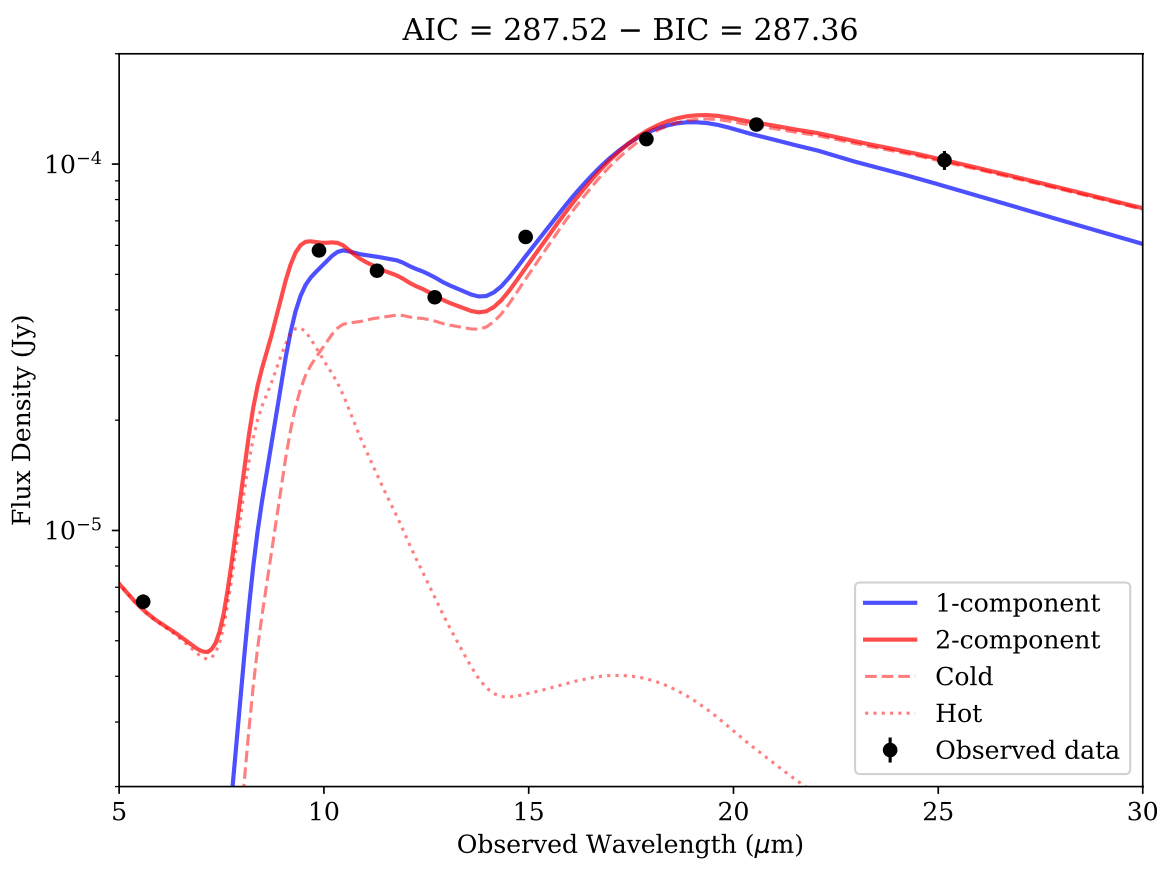
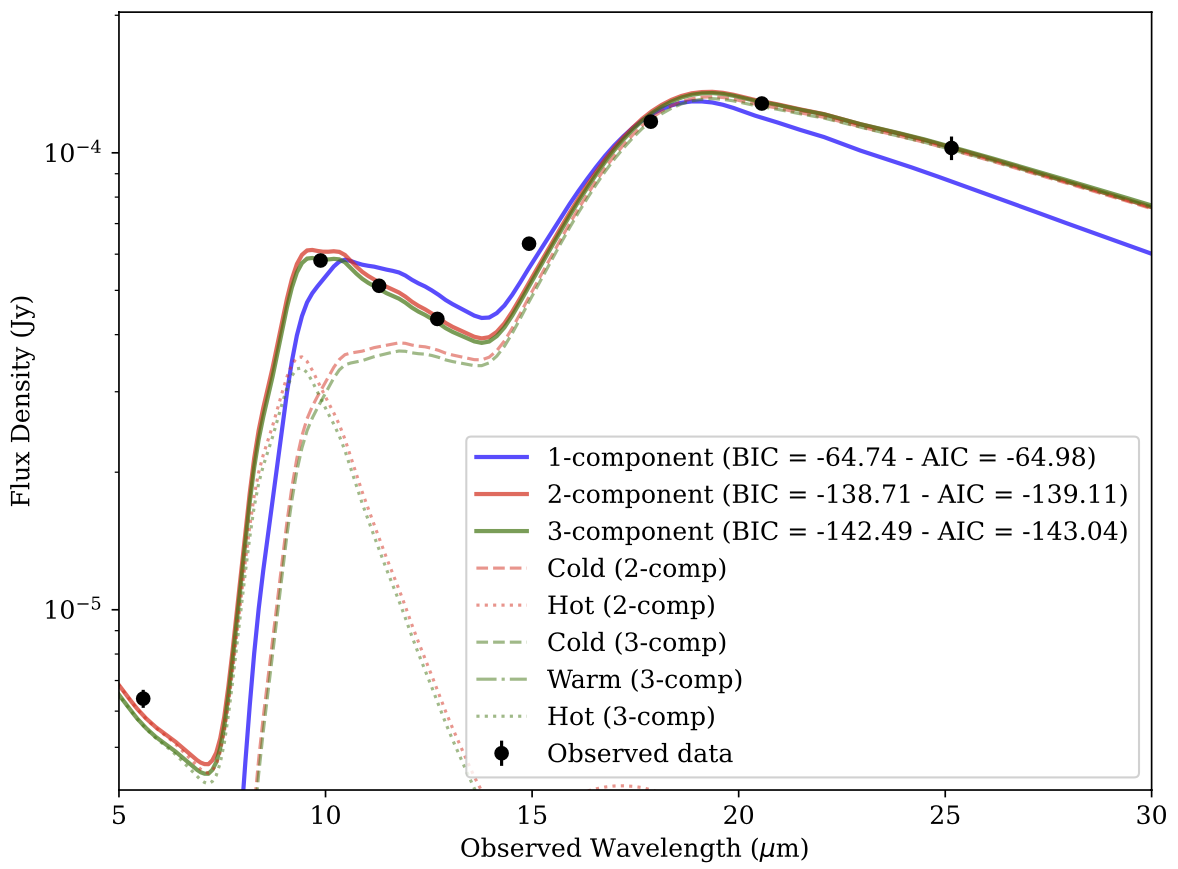
Version 0.1

diff --git a/dustysn/model.py b/dustysn/model.py
@@ -1627,13 +1627,12 @@ def fit_dust_model(obs_wave, obs_flux, obs_flux_err, obs_limits, redshift, objec
     return results, last_samples
 
 
-def compare_models(obs_wave, obs_flux, obs_flux_err, obs_limits, redshift, object_name,
-                   results_1, results_2, composition1='carbon', composition2='carbon', grain_size=0.1,
-                   obs_wave_filters=None, obs_trans_filters=None, fig_size=(8, 6),
+def compare_models(obs_wave, obs_flux, obs_flux_err, obs_limits, redshift, object_name, results_1, results_2,
+                   results_3, grain_size=0.1, obs_wave_filters=None, obs_trans_filters=None, fig_size=(8, 6),
                    output_dir='.', plot_comparison=True, composition_hot=None, composition_cold=None,
                    composition_warm=None, dust_type='thin', radius=None, add_sigma=True, distance=None):
     """
-    Compare 1-component vs 2-component dust models.
+    Compare 1-component, 2-component, and 3-component dust models.
 
     Parameters
     ----------
@@ -1653,10 +1652,8 @@ def compare_models(obs_wave, obs_flux, obs_flux_err, obs_limits, redshift, objec
         Dictionary with the results of the 1-component MCMC fit
     results_2 : dict
         Dictionary with the results of the 2-component MCMC fit
-    composition1 : str, default 'carbon'
-        Composition of the dust for the 1-component model
-    composition2 : str, default 'carbon'
-        Composition of the dust for the 2-component model
+    results_3 : dict
+        Dictionary with the results of the 3-component MCMC fit
     grain_size : float, default 0.1
         Grain size in microns
     obs_wave_filters : list of arrays
@@ -1673,6 +1670,8 @@ def compare_models(obs_wave, obs_flux, obs_flux_err, obs_limits, redshift, objec
         Composition of the hot dust component (if n_components=2)
     composition_cold : str, optional
         Composition of the cold dust component (if n_components=2)
+    composition_warm : str, optional
+        Composition of the warm dust component (if n_components=3)
     dust_type : str, default 'thin'
         Type of dust emission ('thin' for optically thin, 'thick' for optically thick).
     radius : float, optional
@@ -1681,6 +1680,8 @@ def compare_models(obs_wave, obs_flux, obs_flux_err, obs_limits, redshift, objec
         If True, add an additional variance to the uncertainties defined by the sigma parameter.
     distance : Quantity, optional
         Luminosity distance in astropy units. If None, it will be calculated from the redshift.
+    add_sigma : bool, default True
+        If True, add an additional variance to the uncertainties defined by the sigma parameter.
 
     Returns
     -------
@@ -1696,45 +1697,31 @@ def compare_models(obs_wave, obs_flux, obs_flux_err, obs_limits, redshift, objec
     else:
         raise ValueError(f"distance must be an astropy Quantity or None, not {type(distance)}")
 
-    # Calculate likelihood for the first model
-    wave_kappa_1, kappa_1 = import_coefficients(grain_size=grain_size, composition=composition1,
-                                                interp_grain=False)
-    obs_wave_rest_1 = obs_wave / (1 + redshift)
-    kappa_interp_1 = interpolate_kappa(wave_kappa_1, kappa_1, obs_wave_rest_1)
+    # Interpolate kappa for the cold component (1 component model)
+    wave_kappa_cold, kappa_cold = import_coefficients(grain_size=grain_size, composition=composition_cold,
+                                                      interp_grain=False)
+    obs_wave_rest_cold = obs_wave / (1 + redshift)
+    kappa_interp_cold = interpolate_kappa(wave_kappa_cold, kappa_cold, obs_wave_rest_cold)
+
+    # Interpolate kappa for the hot component (2 component model)
+    wave_kappa_hot, kappa_hot = import_coefficients(grain_size=grain_size, composition=composition_hot,
+                                                    interp_grain=False)
+    obs_wave_rest_hot = obs_wave / (1 + redshift)
+    kappa_interp_hot = interpolate_kappa(wave_kappa_hot, kappa_hot, obs_wave_rest_hot)
+
+    # Interpolate kappa for the warm component (3 component model)
+    wave_kappa_warm, kappa_warm = import_coefficients(grain_size=grain_size, composition=composition_warm,
+                                                      interp_grain=False)
+    obs_wave_rest_warm = obs_wave / (1 + redshift)
+    kappa_interp_warm = interpolate_kappa(wave_kappa_warm, kappa_warm, obs_wave_rest_warm)
 
     # Get the best parameters for the first model
     best_params_1 = [results_1[key][0] for key in results_1.keys()][:-1]
     log_like_1 = log_likelihood(best_params_1, obs_wave, obs_flux, obs_flux_err, obs_limits,
-                                kappa_interp_1, redshift, distance, radius, n_components=1,
+                                kappa_interp_cold, redshift, distance, radius, n_components=1,
                                 obs_wave_filters=obs_wave_filters, obs_trans_filters=obs_trans_filters,
                                 kappa_interp_hot=None, kappa_interp_cold=None, kappa_interp_warm=None,
                                 dust_type=dust_type, add_sigma=add_sigma)
-
-    # Calculate likelihood for the second model
-    if composition_cold is None:
-        composition_cold = composition2
-    if composition_hot is None:
-        composition_hot = composition2
-    if composition_warm is None:
-        composition_warm = composition2
-
-    # Interpolate cold component
-    wave_kappa_2_cold, kappa_2_cold = import_coefficients(grain_size=grain_size, composition=composition_cold,
-                                                          interp_grain=False)
-    obs_wave_rest_2_cold = obs_wave / (1 + redshift)
-    kappa_interp_cold = interpolate_kappa(wave_kappa_2_cold, kappa_2_cold, obs_wave_rest_2_cold)
-
-    # Interpolate hot component
-    wave_kappa_2_hot, kappa_2_hot = import_coefficients(grain_size=grain_size, composition=composition_hot,
-                                                        interp_grain=False)
-    obs_wave_rest_2_hot = obs_wave / (1 + redshift)
-    kappa_interp_hot = interpolate_kappa(wave_kappa_2_hot, kappa_2_hot, obs_wave_rest_2_hot)
-
-    # Interpolate warm component
-    wave_kappa_2_warm, kappa_2_warm = import_coefficients(grain_size=grain_size, composition=composition_warm,
-                                                          interp_grain=False)
-    obs_wave_rest_2_warm = obs_wave / (1 + redshift)
-    kappa_interp_warm = interpolate_kappa(wave_kappa_2_warm, kappa_2_warm, obs_wave_rest_2_warm)
 
     # Get the best parameters for the second model
     best_params_2 = [results_2[key][0] for key in results_2.keys()][:-1]
@@ -1744,32 +1731,27 @@ def compare_models(obs_wave, obs_flux, obs_flux_err, obs_limits, redshift, objec
                                 kappa_interp_hot=kappa_interp_hot, kappa_interp_cold=kappa_interp_cold,
                                 kappa_interp_warm=kappa_interp_warm, dust_type=dust_type, add_sigma=add_sigma)
 
+    # Get the best parameters for the third model
+    best_params_3 = [results_3[key][0] for key in results_3.keys()][:-1]
+    log_like_3 = log_likelihood(best_params_3, obs_wave, obs_flux, obs_flux_err, obs_limits,
+                                kappa_interp_hot, redshift, distance, radius, n_components=3,
+                                obs_wave_filters=obs_wave_filters, obs_trans_filters=obs_trans_filters,
+                                kappa_interp_hot=kappa_interp_hot, kappa_interp_cold=kappa_interp_cold,
+                                kappa_interp_warm=kappa_interp_warm, dust_type=dust_type, add_sigma=add_sigma)
+
     # Calculate AIC and BIC
     n_data = len(obs_flux)
     n_params_1 = len(best_params_1)  # one component with log_mass and temperature
     n_params_2 = len(best_params_2)  # two components with log_mass and temperature
+    n_params_3 = len(best_params_3)  # three components with log_mass and temperature
 
     aic_1comp = 2 * n_params_1 - 2 * log_like_1
     aic_2comp = 2 * n_params_2 - 2 * log_like_2
-    delta_aic = aic_1comp - aic_2comp
+    aic_3comp = 2 * n_params_3 - 2 * log_like_3
 
     bic_1comp = np.log(n_data) * n_params_1 - 2 * log_like_1
     bic_2comp = np.log(n_data) * n_params_2 - 2 * log_like_2
-    delta_bic = bic_1comp - bic_2comp
-
-    # Print comparison
-    print("\nModel Comparison:")
-    print(f"1-component model: Log-likelihood = {log_like_1:.2f}, AIC = {aic_1comp:.2f}, BIC = {bic_1comp:.2f}")
-    print(f"2-component model: Log-likelihood = {log_like_2:.2f}, AIC = {aic_2comp:.2f}, BIC = {bic_2comp:.2f}")
-    print(f"Delta AIC (1comp - 2comp) = {delta_aic:.2f} (positive favors 2-component model)")
-    print(f"Delta BIC (1comp - 2comp) = {delta_bic:.2f} (positive favors 2-component model)")
-
-    if delta_aic > 0 and delta_bic > 0:
-        print("Both AIC and BIC favor the 2-component model.")
-    elif delta_aic > 0 and delta_bic <= 0:
-        print("AIC favors the 2-component model, but BIC (which penalizes complexity more) favors the 1-component model.")
-    elif delta_aic <= 0 and delta_bic <= 0:
-        print("Both AIC and BIC favor the 1-component model.")
+    bic_3comp = np.log(n_data) * n_params_3 - 2 * log_like_3
 
     # Create a figure that shows both models
     if plot_comparison:
@@ -1785,23 +1767,43 @@ def compare_models(obs_wave, obs_flux, obs_flux_err, obs_limits, redshift, objec
 
         # Interpolate kappa to the fine grid's rest wavelengths
         wave_dense_rest = wave_dense / (1 + redshift)
-        kappa_dense_1 = interpolate_kappa(wave_kappa_1, kappa_1, wave_dense_rest)
-        kappa_dense_hot = interpolate_kappa(wave_kappa_2_cold, kappa_2_cold, wave_dense_rest)
-        kappa_dense_cold = interpolate_kappa(wave_kappa_2_hot, kappa_2_hot, wave_dense_rest)
+        kappa_dense_cold = interpolate_kappa(wave_kappa_cold, kappa_cold, wave_dense_rest)
+        kappa_dense_hot = interpolate_kappa(wave_kappa_hot, kappa_hot, wave_dense_rest)
+        kappa_dense_warm = interpolate_kappa(wave_kappa_warm, kappa_warm, wave_dense_rest)
 
         # Plot 1-component model
-        model_1comp = model_flux(best_params_1, wave_dense, obs_flux, kappa_dense_1,
+        if add_sigma:
+            best_params_1_use = best_params_1[:-1]
+        else:
+            best_params_1_use = best_params_1
+        model_1comp = model_flux(best_params_1_use, wave_dense, obs_flux, kappa_dense_cold,
                                  redshift, distance, radius, n_components=1, dust_type=dust_type)
         plt.plot(wave_dense.value, model_1comp.value, 'b-', linewidth=2,
-                 label='1-component', alpha=0.7)
+                 label=f'1-component (BIC = {bic_1comp:.2f} - AIC = {aic_1comp:.2f})', alpha=0.7)
 
         # Plot 2-component model
-        model_2comp = model_flux(best_params_2, wave_dense, obs_flux, kappa_dense_hot,
+        if add_sigma:
+            best_params_2_use = best_params_2[:-1]
+        else:
+            best_params_2_use = best_params_2
+        model_2comp = model_flux(best_params_2_use, wave_dense, obs_flux, kappa_dense_hot,
                                  redshift, distance, radius, n_components=2,
                                  kappa_interp_hot=kappa_dense_hot, kappa_interp_cold=kappa_dense_cold,
                                  dust_type=dust_type)
         plt.plot(wave_dense.value, model_2comp.value, 'r-', linewidth=2,
-                 label='2-component', alpha=0.7)
+                 label=f'2-component (BIC = {bic_2comp:.2f} - AIC = {aic_2comp:.2f})', alpha=0.7)
+
+        # Plot 3-component model
+        if add_sigma:
+            best_params_3_use = best_params_3[:-1]
+        else:
+            best_params_3_use = best_params_3
+        model_3comp = model_flux(best_params_3_use, wave_dense, obs_flux, kappa_dense_hot,
+                                 redshift, distance, radius, n_components=3,
+                                 kappa_interp_hot=kappa_dense_hot, kappa_interp_cold=kappa_dense_cold,
+                                 kappa_interp_warm=kappa_dense_warm, dust_type=dust_type)
+        plt.plot(wave_dense.value, model_3comp.value, 'g-', linewidth=2,
+                 label=f'3-component (BIC = {bic_3comp:.2f} - AIC = {aic_3comp:.2f})', alpha=0.7)
 
         # Plot individual components of the 2-component model
         # Cold component
@@ -1809,12 +1811,34 @@ def compare_models(obs_wave, obs_flux, obs_flux_err, obs_limits, redshift, objec
         comp1_model = model_flux(comp1_params, wave_dense, obs_flux, kappa_dense_cold,
                                  redshift, distance, radius, n_components=1, dust_type=dust_type)
         plt.plot(wave_dense.value, comp1_model.value, 'r--', alpha=0.5, linewidth=1.5,
-                 label='Cold')
+                 label='Cold (2-comp)')
 
         # Hot component
         comp2_params = (best_params_2[2], best_params_2[3])
         comp2_model = model_flux(comp2_params, wave_dense, obs_flux, kappa_dense_hot,
                                  redshift, distance, radius, n_components=1, dust_type=dust_type)
+        plt.plot(wave_dense.value, comp2_model.value, 'r:', alpha=0.5, linewidth=1.5,
+                 label='Hot (2-comp)')
+
+        # Plot individual components of the 3-component model
+        # Cold component
+        comp1_params_3 = (best_params_3[0], best_params_3[1])
+        comp1_model_3 = model_flux(comp1_params_3, wave_dense, obs_flux, kappa_dense_cold,
+                                   redshift, distance, radius, n_components=1, dust_type=dust_type)
+        plt.plot(wave_dense.value, comp1_model_3.value, 'g--', alpha=0.5, linewidth=1.5,
+                 label='Cold (3-comp)')
+        # Warm component
+        comp3_params = (best_params_3[4], best_params_3[5])
+        comp3_model = model_flux(comp3_params, wave_dense, obs_flux, kappa_dense_warm,
+                                 redshift, distance, radius, n_components=1, dust_type=dust_type)
+        plt.plot(wave_dense.value, comp3_model.value, 'g-.', alpha=0.5, linewidth=1.5,
+                 label='Warm (3-comp)')
+        # Hot component
+        comp2_params_3 = (best_params_3[2], best_params_3[3])
+        comp2_model_3 = model_flux(comp2_params_3, wave_dense, obs_flux, kappa_dense_hot,
+                                   redshift, distance, radius, n_components=1, dust_type=dust_type)
+        plt.plot(wave_dense.value, comp2_model_3.value, 'g:', alpha=0.5, linewidth=1.5,
+                 label='Hot (3-comp)')
 
         # Determine the optimal y-axis limits
         ymin = 10 ** (np.log10(np.nanmin(obs_flux.value)) - 0.2)
@@ -1824,9 +1848,6 @@ def compare_models(obs_wave, obs_flux, obs_flux_err, obs_limits, redshift, objec
         xmin = np.min([5, np.min(obs_wave.value) * 0.9])
         xmax = np.max([30, np.max(obs_wave.value) * 1.1])
 
-        plt.plot(wave_dense.value, comp2_model.value, 'r:', alpha=0.5, linewidth=1.5,
-                 label='Hot')
-        plt.title(rf'AIC = {delta_aic:.2f} $-$ BIC = {delta_bic:.2f}')
         plt.xlabel(r'Observed Wavelength ($\mu$m)')
         plt.ylabel('Flux Density (Jy)')
         plt.yscale('log')
@@ -1849,16 +1870,16 @@ def compare_models(obs_wave, obs_flux, obs_flux_err, obs_limits, redshift, objec
             'log_like_2': log_like_2,
             'aic_1comp': aic_1comp,
             'aic_2comp': aic_2comp,
-            'delta_aic': delta_aic,
+            'aic_3comp': aic_3comp,
             'bic_1comp': bic_1comp,
             'bic_2comp': bic_2comp,
-            'delta_bic': delta_bic
+            'bic_3comp': bic_3comp
         }
     }
 
 
 def full_model(filename, object_name, redshift, composition='carbon', grain_size=0.1, n_walkers=50, n_steps=1000, burn_in=0.75,
-               n_cores=1, sigma_clip=2, repeats=3, emcee_progress=True, n_filter_samples=1000, plot=False, plots_model=False,
+               n_cores=1, sigma_clip=2, repeats=3, emcee_progress=True, n_filter_samples=1000, plot=True, plots_model=False,
                plots_corner=False, plots_trace=False, output_dir='.', initial_pos=None, priors=None, composition_hot=None,
                composition_cold=None, composition_warm=None, dust_type='thin', radius=None, flat_mass_prior=True, add_sigma=True,
                distance=None):
@@ -1967,11 +1988,10 @@ def full_model(filename, object_name, redshift, composition='carbon', grain_size
                                                initial_pos=initial_pos, priors=priors, dust_type=dust_type, radius=radius, flat_mass_prior=flat_mass_prior,
                                                add_sigma=add_sigma, distance=distance)
 
-    if False:
-        results = compare_models(obs_wave, obs_flux, obs_flux_err, obs_limits, redshift, object_name,
-                                results_1, results_2, composition1=composition, composition2=composition, grain_size=grain_size,
-                                obs_wave_filters=obs_wave_filters, obs_trans_filters=obs_trans_filters, output_dir=output_dir,
-                                plot_comparison=plot, composition_hot=composition_hot, composition_cold=composition_cold,
-                                dust_type=dust_type, radius=radius, add_sigma=add_sigma, distance=distance)
+    results = compare_models(obs_wave, obs_flux, obs_flux_err, obs_limits, redshift, object_name, results_1,
+                             results_2, results_3, grain_size=grain_size, obs_wave_filters=obs_wave_filters,
+                             obs_trans_filters=obs_trans_filters, output_dir=output_dir, plot_comparison=plot,
+                             composition_hot=composition_hot, composition_cold=composition_cold, composition_warm=composition_warm,
+                             dust_type=dust_type, radius=radius, add_sigma=add_sigma, distance=distance)
 
-        return results
+    return results

diff --git a/setup.py b/setup.py
@@ -2,7 +2,7 @@ from setuptools import setup
 
 setup(
     name='dustysn',
-    version='0.0.2',
+    version='0.1',
     author='Sebastian Gomez',
     author_email='sebastian.gomez@austin.utexas.edu',
     description='Package to fit the SEDs of dusty supernovae.',

diff --git a/docs/usage.rst b/docs/usage.rst
@@ -247,59 +247,23 @@ data is not able to constrain it.
 
 That is a better fit to the data, but how do we know that? The ``full_model`` function also generates a comparsion plot in which it compares the one component
 fit and the two component fit to the data, as well as the BIC and AIC values for both models. The BIC (Bayesian Information Criterion) and AIC (Akaike Information Criterion)
-are both used to penalize models for their complexity, with lower values indicating a better fit. A larger difference between the BIC or AIC values of the two models indicates
-that one model is significantly better than the other.
+are both used to penalize models for their complexity, with lower values indicating a better fit.
 
 .. figure:: images/comparison_SN2017eaw.png
    :alt: BIC and AIC Comparison
    :align: center
    :width: 100%
 
-   **BIC and AIC Comparison.** Example of a BIC and AIC comparison between the one and two component model fit to the data of SN2017eaw.
+   **BIC and AIC Comparison.** Example of a BIC and AIC comparison between the one, two, and three component model fit to the data of SN2017eaw.
 
-In this case, the two component model is preferred over the one component model.
-
-Different Compositions
-~~~~~~~~~~~~~~~~~~~~~~
-
-Additionally, you can use the ``composition_hot`` and  ``composition_cold`` keys to specify separate compositions for the hot and cold dust components, respectively.
-Right now, both must have the same grain size. To do this, you can modify the ``fit_dust_model`` or ``full_model`` functions like this:
-
-.. code-block:: python
-
-    # Fit the two component model
-    results_2 = fit_dust_model(obs_wave, obs_flux, obs_flux_err, obs_limits, redshift, object_name, grain_size=grain_size,
-                               n_components=n_components, n_walkers=n_walkers, n_steps=n_steps, n_cores=n_cores,
-                               sigma_clip=sigma_clip, repeats=repeats, obs_wave_filters=obs_wave_filters,
-                               obs_trans_filters=obs_trans_filters, plot=True, output_dir='.',
-                               composition_hot='silicate', composition_cold='carbon')
-
-    # Run all model functions
-    full_model(filename, object_name, redshift, n_steps, n_walkers, grain_size=grain_size,
-               n_cores=n_cores, sigma_clip=sigma_clip, repeats=repeats, plot=True, output_dir='.',
-               composition_hot='silicate', composition_cold='carbon')
-
-.. figure:: images/SN2017eaw_2_model_fit_silicate_carbon.png
-   :alt: 2 Component Different Fit
-   :align: center
-   :width: 100%
-
-   **Two Component Model Fit.** Example of a two component model fit to the data of SN2017eaw, but with two different compositions for the hot and cold dust components.
-
-In this case, this is not a great fit.
-
+In this case, the two component model is preferred over the one component model. Make sure to compare the *difference* between the BIC and AIC values,
+as the absolute values depend on the number of data points and the number of parameters in the model. In this case the two component model is significantly
+lower than the one component model, indicating that it is a better fit to the data. The three component model is only marginally better than the two component model,
+but it is probably not worth the additional complexity.
 
 Optically Thick Case
 ~~~~~~~~~~~~~~~~~~~~
 
-You can also choose to fit optically thick dust by specifying ``dust_type = 'thick'``, you just need to also specify
-a radius in cm for the dust shell. All the other parameters are the same as before.
-
-.. code-block:: python
-
-    # Fit the two component model of optically thick dust
-    results_2 = fit_dust_model(obs_wave, obs_flux, obs_flux_err, obs_limits, redshift, object_name, grain_size=grain_size,
-                               n_components=n_components, n_walkers=n_walkers, n_steps=n_steps, n_cores=n_cores,
-                               sigma_clip=sigma_clip, repeats=repeats, obs_wave_filters=obs_wave_filters,
-                               obs_trans_filters=obs_trans_filters, plot=True, output_dir='.',
-                               dust_type='thick', radius=1e16)
+You can also choose to fit optically thick dust by specifying ``dust_type = 'thick'``. In this case you must also
+specify the radius of the dust shell in cm using the ``radius`` parameter. All the other parameters and functionality
+are the same as before.

diff --git a/docs/reference.rst b/docs/reference.rst
@@ -6,8 +6,9 @@ Reference
 Dust
 ----
 
-The functions in ``dustysn`` depend mostly on the mass absorption coefficient from [CITE] and [CITE].
-Currently, the supported compositions are carbonaceous and silicate dust. The carbonaceous dust can have
+The functions in ``dustysn`` are based off the mass absorption coefficients
+from `Sarangi et al. 2022 <https://ui.adsabs.harvard.edu/abs/2022A%26A...668A..57S/abstract>`__.
+Currently, the supported compositions are carbon and silicate dust. The carbon dust can have
 grain sizes of 0.01, 0.1, or 1.0 microns, while the silicate dust can have grain sizes of 0.1 microns.
 
 Models

diff --git a/CHANGES.rst b/CHANGES.rst
@@ -1,3 +1,11 @@
+0.1 (2025-07-14)
+----------------
+
+- Added support for three component models.
+- Fixed bugs in the fitting routine.
+- Added additional variance parameter.
+- Improved readthedocs documentation.
+
 0.0.2 (2025-06-03)
 ----------------
 
